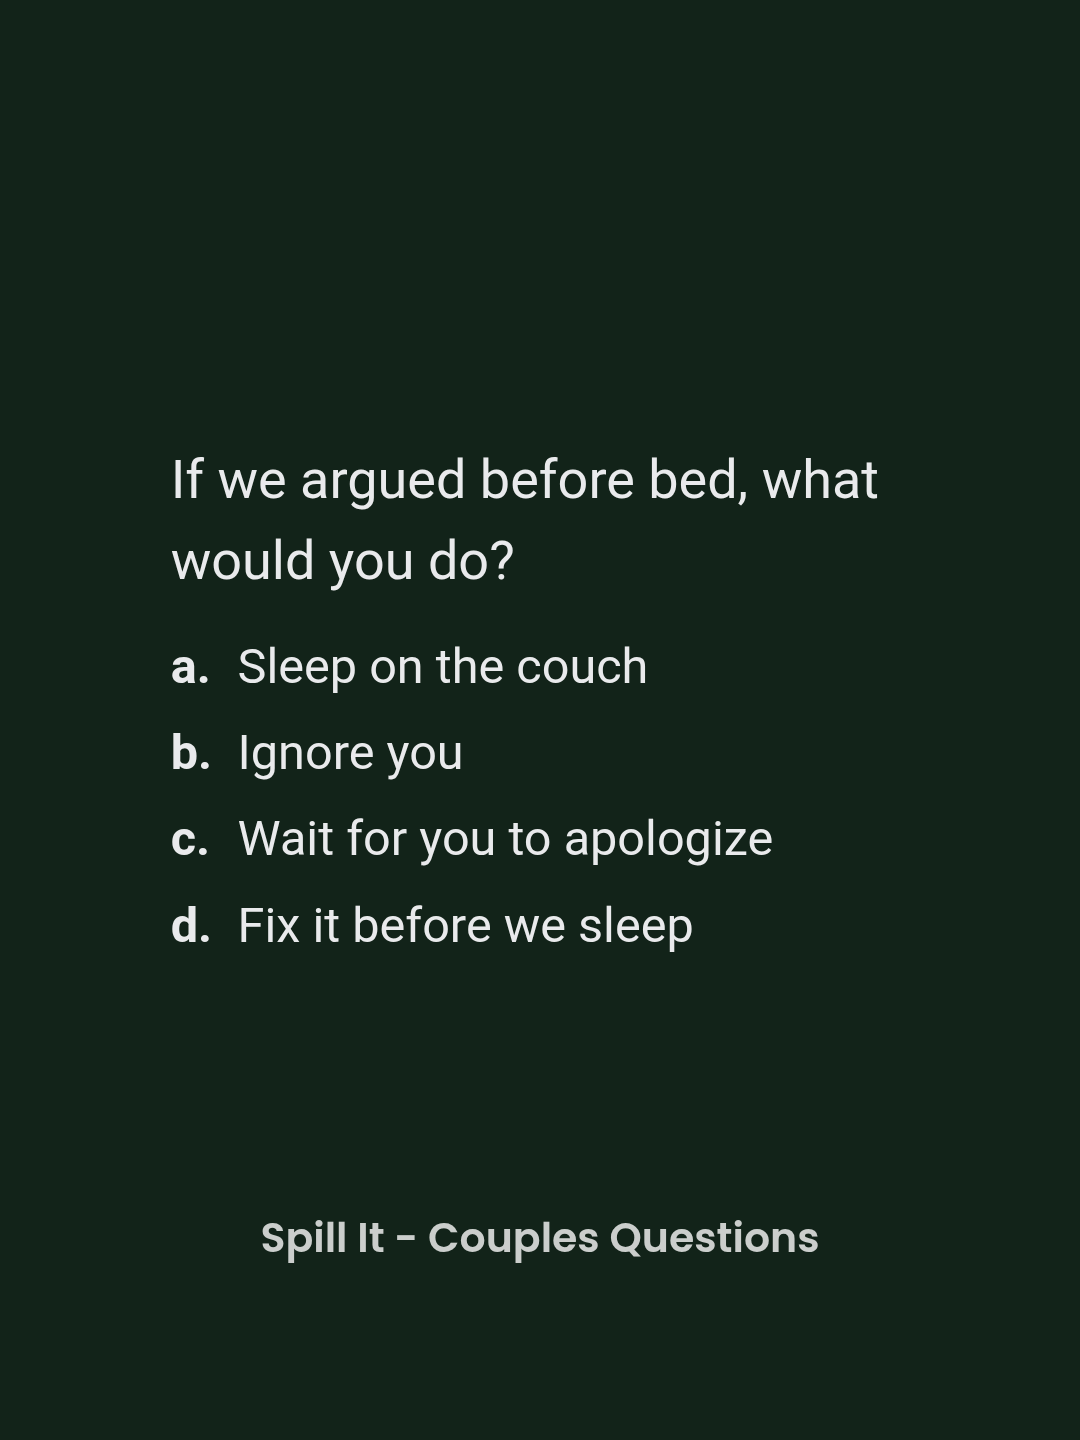
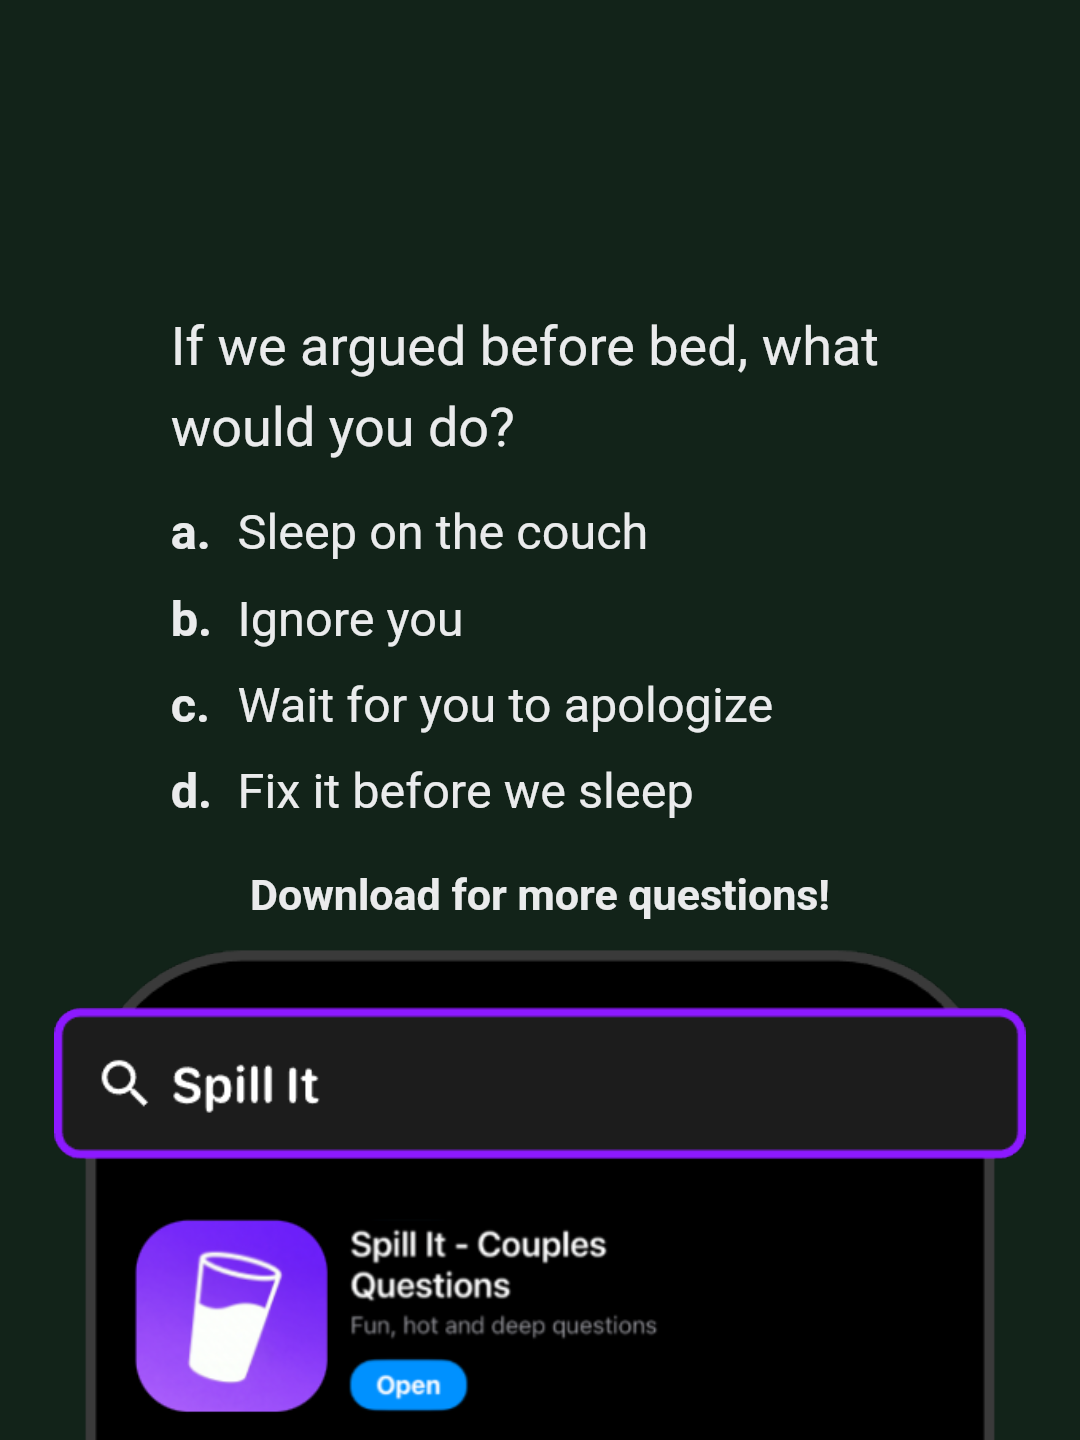
Put template 23's App Store prompt on the last question.
The closing slide was a separate, small phone mock. It now uses template 2's cropped App Store layout on Q7, and the extra CTA-only slide is gone.

Changed region(s): [[0.0306, 0.2188, 0.9472, 1.0]]

diff --git a/app/lib/image-template-23-flat-dark.ts b/app/lib/image-template-23-flat-dark.ts
@@ -1,8 +1,11 @@
 import { IMAGE_TEMPLATE2_APP_FOOTER } from '@/app/lib/constants';
 import { splitCopycatQuestionAndOptions } from '@/app/lib/copycat/flamingo-cards';
 import {
-  IMAGE_TEMPLATE2_Q5_PROMO_ASPECT,
   IMAGE_TEMPLATE2_Q5_PROMO_LABEL,
+  IMAGE_TEMPLATE2_Q5_PROMO_LABEL_GAP_RATIO,
+  IMAGE_TEMPLATE2_Q5_PROMO_LABEL_SIZE_RATIO,
+  IMAGE_TEMPLATE2_Q5_PROMO_TEXT_GAP_RATIO,
+  imageTemplate2Q5PromoLayout,
 } from '@/app/lib/image-template-2-cover';
 
 /**
@@ -10,13 +13,17 @@ import {
  * Measured from a 3:4 "let it slide" post: one solid colour per slide,
  * no card, frame, progress bar, grain, or vignette.
  *
- * Cover + seven questions + a closing App Store slide. Question colours
+ * Cover + seven questions. The last question keeps its copy and closes with
+ * template 2's App Store promo (the mock reading "Download for more questions!",
+ * same width and crop). There is no extra CTA-only slide. Question colours
  * cycle when a post has more than seven questions. Type is Roboto.
- * The footer is Poppins SemiBold, same string as template 2.
+ * The footer is Poppins SemiBold, same string as template 2, and the promo
+ * replaces it on the last question.
  */
 export const IMAGE_TEMPLATE23_QUESTION_COUNT = 7;
-export const IMAGE_TEMPLATE23_SLIDE_COUNT = IMAGE_TEMPLATE23_QUESTION_COUNT + 2;
-export const IMAGE_TEMPLATE23_CTA_TAB = IMAGE_TEMPLATE23_SLIDE_COUNT - 1;
+export const IMAGE_TEMPLATE23_SLIDE_COUNT = IMAGE_TEMPLATE23_QUESTION_COUNT + 1;
+/** Last question. The App Store mock sits on this slide. */
+export const IMAGE_TEMPLATE23_CTA_TAB = IMAGE_TEMPLATE23_QUESTION_COUNT;
 
 export const IMAGE_TEMPLATE23_COVER_BG = '#252531';
 export const IMAGE_TEMPLATE23_QUESTION_COLORS = [
@@ -28,11 +35,9 @@ export const IMAGE_TEMPLATE23_QUESTION_COLORS = [
   '#0B1E3E',
   '#122319',
 ] as const;
-export const IMAGE_TEMPLATE23_CTA_BG = '#2B1215';
 
 /** Near-white at about 95% opacity. */
 export const IMAGE_TEMPLATE23_TEXT = 'rgba(245, 245, 248, 0.95)';
-export const IMAGE_TEMPLATE23_CTA_TEXT = '#FFFFFF';
 /** White at about 78% opacity. */
 export const IMAGE_TEMPLATE23_FOOTER_COLOR = 'rgba(255, 255, 255, 0.78)';
 
@@ -81,8 +86,8 @@ export function isImageTemplate23Id(templateId: number | null | undefined): bool
   return templateId === 23;
 }
 
-export function template23Background(tabIndex: number, isCta: boolean): string {
-  if (isCta) return IMAGE_TEMPLATE23_CTA_BG;
+/** Solid colour for the tab. The closing promo uses the last question's colour. */
+export function template23Background(tabIndex: number): string {
   if (tabIndex <= 0) return IMAGE_TEMPLATE23_COVER_BG;
   const slot =
     (tabIndex - 1) % IMAGE_TEMPLATE23_QUESTION_COLORS.length;
@@ -119,16 +124,6 @@ const OPTION_LABEL_WEIGHT = 700;
 const FOOTER_Y = 0.862;
 const FOOTER_SIZE = 0.038;
 const FOOTER_WEIGHT = 600;
-
-/** CTA headline band and phone, measured on the reference post. */
-const CTA_HEADLINE_TOP = 0.11;
-const CTA_HEADLINE_BOTTOM = 0.26;
-const CTA_HEADLINE_SIZE = 0.05;
-const CTA_HEADLINE_LINE_HEIGHT = 1.333;
-const CTA_HEADLINE_MAX_WIDTH = 0.78;
-const CTA_PHONE_X = 0.18;
-const CTA_PHONE_W = 0.64;
-const CTA_PHONE_Y = 0.46;
 
 function setLetterSpacing(ctx: CanvasRenderingContext2D, value: string) {
   if ('letterSpacing' in ctx) ctx.letterSpacing = value;
@@ -383,19 +378,39 @@ function paintQuestion(
   height: number,
   question: string,
   optionSource: string,
-  fontFamily: string
-) {
+  fontFamily: string,
+  /**
+   * When set, the block is lifted (and shrunk only if it still will not fit)
+   * so it ends above this y. Used by the closing slide so the promo can stay
+   * at template 2's resting size. Omitted on ordinary question slides.
+   */
+  ceiling?: number
+): number {
   const footerTop = height * FOOTER_Y - width * FOOTER_SIZE * 0.7;
+  const topFloor = height * (ceiling == null ? 0.08 : 0.05);
   let scale = 1;
-  const minScale = 0.62;
+  const minScale = ceiling == null ? 0.62 : 0.48;
   let layout = layoutQuestion(ctx, width, height, question, optionSource, fontFamily, scale);
-  while (
-    scale > minScale &&
-    (layout.top < height * 0.08 || questionBlockBottom(layout) > footerTop)
-  ) {
-    scale = Math.max(minScale, scale - 0.04);
-    layout = layoutQuestion(ctx, width, height, question, optionSource, fontFamily, scale);
-    if (scale === minScale) break;
+  if (ceiling == null) {
+    while (
+      scale > minScale &&
+      (layout.top < topFloor || questionBlockBottom(layout) > footerTop)
+    ) {
+      scale = Math.max(minScale, scale - 0.04);
+      layout = layoutQuestion(ctx, width, height, question, optionSource, fontFamily, scale);
+      if (scale === minScale) break;
+    }
+  } else {
+    const room = ceiling - topFloor;
+    while (scale > minScale && questionBlockBottom(layout) - layout.top > room) {
+      scale = Math.max(minScale, scale - 0.04);
+      layout = layoutQuestion(ctx, width, height, question, optionSource, fontFamily, scale);
+      if (scale === minScale) break;
+    }
+    const block = questionBlockBottom(layout) - layout.top;
+    if (layout.top + block > ceiling) {
+      layout = { ...layout, top: Math.max(topFloor, ceiling - block) };
+    }
   }
 
   const left = width * QUESTION_X;
@@ -434,44 +449,36 @@ function paintQuestion(
     }
     if (index < optionRows.length - 1) y += layout.optionPitch;
   });
+  return questionBlockBottom(layout);
 }
 
-function promoAspect(promo: CanvasImageSource): number {
-  const sized = promo as { width?: number; height?: number };
-  if (sized.width && sized.height) return sized.width / sized.height;
-  return IMAGE_TEMPLATE2_Q5_PROMO_ASPECT;
-}
-
-function paintCta(
+/**
+ * Template 2's Q5 promo: a 90%-wide App Store mock whose top sits at 66% of
+ * the frame (the rest runs off the bottom), with the label just above it.
+ * A long question pushes the mock down instead of covering the copy.
+ */
+function paintClosingPromo(
   ctx: CanvasRenderingContext2D,
   width: number,
   height: number,
   fontFamily: string,
-  promo: CanvasImageSource | null
+  promo: CanvasImageSource | null,
+  textBottom: number
 ) {
-  const size = width * CTA_HEADLINE_SIZE;
-  const lineH = size * CTA_HEADLINE_LINE_HEIGHT;
-  const maxWidth = width * CTA_HEADLINE_MAX_WIDTH;
-  ctx.font = `700 ${size}px ${fontFamily}`;
+  const labelSize = Math.round(height * IMAGE_TEMPLATE2_Q5_PROMO_LABEL_SIZE_RATIO);
+  const labelGap = height * IMAGE_TEMPLATE2_Q5_PROMO_LABEL_GAP_RATIO;
+  const layout = imageTemplate2Q5PromoLayout(
+    width,
+    height,
+    textBottom > 0 ? textBottom + labelSize + labelGap : 0
+  );
+  if (promo) ctx.drawImage(promo, layout.x, layout.y, layout.width, layout.height);
+  ctx.font = `700 ${labelSize}px ${fontFamily}`;
   setLetterSpacing(ctx, '0px');
-  const lines = wrapBlock(ctx, IMAGE_TEMPLATE2_Q5_PROMO_LABEL, maxWidth);
-  const block = emSpan(lines.length, lineH, size);
-  const bandTop = height * CTA_HEADLINE_TOP;
-  const bandBottom = height * CTA_HEADLINE_BOTTOM;
-  let y = bandTop + Math.max(0, (bandBottom - bandTop - block) / 2);
-
-  ctx.fillStyle = IMAGE_TEMPLATE23_CTA_TEXT;
+  ctx.fillStyle = IMAGE_TEMPLATE23_TEXT;
   ctx.textAlign = 'center';
-  ctx.textBaseline = 'top';
-  lines.forEach((line, index) => {
-    ctx.fillText(line, width / 2, y);
-    y += index === lines.length - 1 ? size : lineH;
-  });
-
-  if (!promo) return;
-  const phoneW = width * CTA_PHONE_W;
-  const phoneH = phoneW / promoAspect(promo);
-  ctx.drawImage(promo, width * CTA_PHONE_X, height * CTA_PHONE_Y, phoneW, phoneH);
+  ctx.textBaseline = 'bottom';
+  ctx.fillText(IMAGE_TEMPLATE2_Q5_PROMO_LABEL, width / 2, layout.y - labelGap);
 }
 
 export function paintTemplate23Slide(
@@ -498,11 +505,21 @@ export function paintTemplate23Slide(
   ctx.shadowColor = 'transparent';
   ctx.shadowBlur = 0;
   setLetterSpacing(ctx, '0px');
-  ctx.fillStyle = template23Background(options.tabIndex, isCta);
+  ctx.fillStyle = template23Background(options.tabIndex);
   ctx.fillRect(0, 0, width, height);
 
   if (isCta) {
-    paintCta(ctx, width, height, fontFamily, options.promo ?? null);
+    const { question, options: optionText } = splitCopycatQuestionAndOptions(options.text);
+    const resting = imageTemplate2Q5PromoLayout(width, height, 0);
+    const labelSize = height * IMAGE_TEMPLATE2_Q5_PROMO_LABEL_SIZE_RATIO;
+    const labelGap = height * IMAGE_TEMPLATE2_Q5_PROMO_LABEL_GAP_RATIO;
+    const ceiling =
+      resting.y - labelGap - labelSize - height * IMAGE_TEMPLATE2_Q5_PROMO_TEXT_GAP_RATIO;
+    const textBottom =
+      question.trim() || optionText.trim()
+        ? paintQuestion(ctx, width, height, question, optionText, fontFamily, ceiling)
+        : 0;
+    paintClosingPromo(ctx, width, height, fontFamily, options.promo ?? null, textBottom);
     return;
   }
 

diff --git a/app/page.tsx b/app/page.tsx
@@ -2413,7 +2413,8 @@ export default function Home() {
       : isFlatDarkImageTemplate
         ? IMAGE_TEMPLATE23_QUESTION_COUNT
         : 5;
-  // Template 1 / 2 / 6 / 7 / 8 / 9 end on Q5 — no CTA.
+  // These templates close on the last question. Template 2's App Store mock
+  // sits on that slide; there is no extra CTA-only tab.
   const hasImageTemplateCtaTab =
     !isPastelCarouselImageTemplate &&
     !isKawaiiImageTemplate &&
@@ -2427,7 +2428,8 @@ export default function Home() {
     !isPastelSlideshowImageTemplate &&
     !isRedGlowImageTemplate &&
     !isOceanSlideshowImageTemplate &&
-    !isRedRoundedImageTemplate;
+    !isRedRoundedImageTemplate &&
+    !isFlatDarkImageTemplate;
   const imageTemplateCtaTabIndex = hasImageTemplateCtaTab
     ? imageTemplateQuestionCount + 1
     : -1;
@@ -4829,7 +4831,7 @@ const imageFrameTitleLine1 = 'Questions to ask your';
       setImageTabPastelBgs([]);
       setImageTabTypeLabel('Funny Questions');
       setImageTabSources(Array.from({ length: IMAGE_TEMPLATE23_SLIDE_COUNT }, () => ''));
-      setImageTabTexts([title, ...questions, '']);
+      setImageTabTexts([title, ...questions]);
       return;
     }
 
@@ -5544,7 +5546,7 @@ const imageFrameTitleLine1 = 'Questions to ask your';
       return { entries, isKawaiiTemplate: false };
     }
     if (exportTemplateId === 23) {
-      const names = ['cover', 'q1', 'q2', 'q3', 'q4', 'q5', 'q6', 'q7', 'cta'] as const;
+      const names = ['cover', 'q1', 'q2', 'q3', 'q4', 'q5', 'q6', 'q7'] as const;
       const frameWidth = 1080;
       const frameHeight = 1440;
       const loadImage = (src: string, label: string) =>
@@ -7877,7 +7879,7 @@ const imageFrameTitleLine1 = 'Questions to ask your';
                               tabIndex={selectedImageBrowserTab}
                               slideCount={imageTemplateTabCount}
                               isCover={selectedImageBrowserTab === 0}
-                              isCta={selectedImageBrowserTab === imageTemplateCtaTabIndex}
+                              isCta={selectedImageBrowserTab === IMAGE_TEMPLATE23_CTA_TAB}
                               coverSubtitle={imageTemplate23CoverSubtitle}
                             />
                           ) : isPastelSlideshowImageTemplate ? (

diff --git a/scripts/render-template-23.ts b/scripts/render-template-23.ts
@@ -45,10 +45,10 @@ async function renderSlide(options: {
 async function main() {
   const promo = await loadImage(`public${IMAGE_TEMPLATE2_Q5_PROMO_SRC}`);
   const questions = pickTemplate21QuestionBodies(IMAGE_TEMPLATE23_QUESTION_COUNT);
-  const slides = [COVER, ...questions, ''];
+  const slides = [COVER, ...questions];
   const outDir = 'docs/image-template-23';
   mkdirSync(outDir, { recursive: true });
-  const names = ['cover', 'q1', 'q2', 'q3', 'q4', 'q5', 'q6', 'q7', 'cta'];
+  const names = ['cover', 'q1', 'q2', 'q3', 'q4', 'q5', 'q6', 'q7'];
   for (let i = 0; i < IMAGE_TEMPLATE23_SLIDE_COUNT; i++) {
     const png = await renderSlide({
       text: slides[i] ?? '',

diff --git a/app/components/FlatDarkPreview.tsx b/app/components/FlatDarkPreview.tsx
@@ -91,7 +91,7 @@ export function FlatDarkPreview({
   return (
     <div
       className="absolute inset-0"
-      style={{ backgroundColor: template23Background(tabIndex, cta) }}
+      style={{ backgroundColor: template23Background(tabIndex) }}
     >
       <canvas
         ref={canvasRef}
